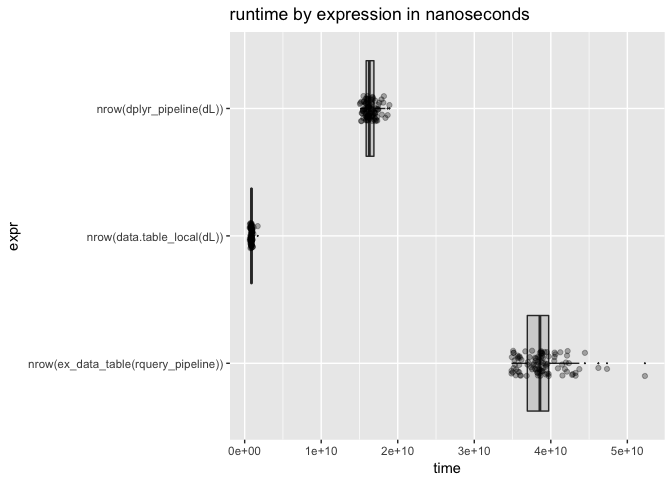
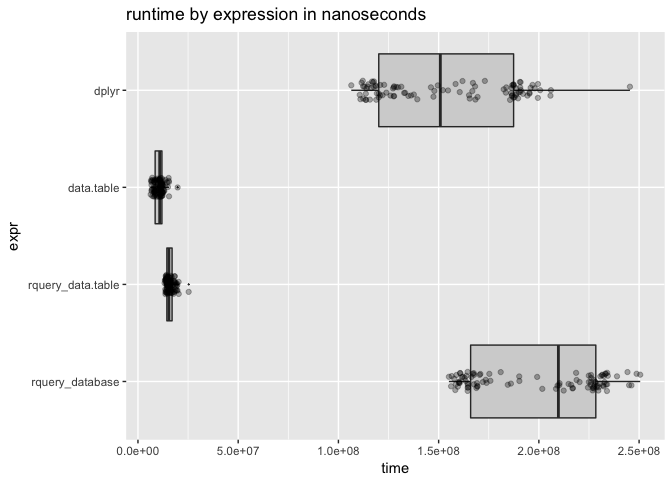
re-run after performance fix

diff --git a/extras/data_table.md b/extras/data_table.md
@@ -204,37 +204,43 @@ dL$subjectID <- paste(dL$subjectID, (1+seq_len(nrow(dL))) %/% 2, sep = "_")
 for(i in seq_len(10)) {
   dL[[paste0("irrelevantCol", i)]] <- runif(nrow(dL))
 }
-
-# show we are working on the new larger data
-system.time(print(nrow(ex_data_table(rquery_pipeline))))
 ```
 
-    ## [1] 200000
-
-    ##    user  system elapsed 
-    ##  41.830   0.673  42.571
-
 ``` r
-system.time(print(nrow(dplyr_pipeline(dL))))
+# show we are working on the new larger data and results agree
+ref <- as.data.frame(ex_data_table(rquery_pipeline))
+assertthat::assert_that(min(ref$probability)>=0.5) # sensible effect
 ```
 
-    ## [1] 200000
-
-    ##    user  system elapsed 
-    ##  17.320   0.139  17.500
+    ## [1] TRUE
 
 ``` r
-system.time(nrow(data.table_local(dL)))
+c1 <- as.data.frame(execute(dL, rquery_pipeline))
+assertthat::are_equal(ref, c1)
 ```
 
-    ##    user  system elapsed 
-    ##   1.367   0.048   0.810
+    ## [1] TRUE
 
 ``` r
-timings <- microbenchmark(
-  nrow(ex_data_table(rquery_pipeline)),
-  nrow(data.table_local(dL)),
-  nrow(dplyr_pipeline(dL)))
+c2 <- as.data.frame(dplyr_pipeline(dL))
+assertthat::are_equal(ref, c2)
+```
+
+    ## [1] TRUE
+
+``` r
+c3 <- as.data.frame(data.table_local(dL))
+assertthat::are_equal(ref, c3)
+```
+
+    ## [1] TRUE
+
+``` r
+timings <- microbenchmark(times = 10L,
+  rquery_database = nrow(execute(dL, rquery_pipeline)),
+  rquery_data.table = nrow(ex_data_table(rquery_pipeline)),
+  data.table = nrow(data.table_local(dL)),
+  dplyr = nrow(dplyr_pipeline(dL)))
 ```
 
 ``` r
@@ -242,14 +248,16 @@ print(timings)
 ```
 
     ## Unit: milliseconds
-    ##                                  expr        min         lq       mean
-    ##  nrow(ex_data_table(rquery_pipeline)) 34862.2797 36901.0846 38805.5518
-    ##            nrow(data.table_local(dL))   650.1954   849.8022   891.8786
-    ##              nrow(dplyr_pipeline(dL)) 15066.6152 15873.5946 16410.9090
-    ##     median        uq       max neval
-    ##  38575.962 39719.327 52297.380   100
-    ##    890.274   920.545  1699.954   100
-    ##  16287.420 16891.901 18911.649   100
+    ##               expr        min         lq       mean     median         uq
+    ##    rquery_database 12142.7993 12320.7961 12681.7088 12620.9087 13064.7130
+    ##  rquery_data.table   673.5670   691.3015   730.9552   709.7306   774.7688
+    ##         data.table   703.7485   798.0307   866.0074   917.4921   935.7896
+    ##              dplyr 15974.8765 16134.2316 16836.6624 16340.9353 16928.0881
+    ##         max neval
+    ##  13409.0698    10
+    ##    839.8092    10
+    ##    960.7547    10
+    ##  20002.3947    10
 
 ``` r
 # summarize by hand using rquery database connector
@@ -262,22 +270,23 @@ timings %.>%
   knitr::kable(.)
 ```
 
-| expr                                    |         mean|
-|:----------------------------------------|------------:|
-| nrow(dplyr\_pipeline(dL))               |  16410908996|
-| nrow(data.table\_local(dL))             |    891878555|
-| nrow(ex\_data\_table(rquery\_pipeline)) |  38805551750|
+| expr               |         mean|
+|:-------------------|------------:|
+| dplyr              |  16836662392|
+| rquery\_database   |  12681708822|
+| rquery\_data.table |    730955241|
+| data.table         |    866007351|
 
 ``` r
 autoplot(timings)
 ```
 
-![](data_table_files/figure-markdown_github/unnamed-chunk-12-1.png)
+![](data_table_files/figure-markdown_github/unnamed-chunk-13-1.png)
 
 ``` r
 WVPlots::ScatterBoxPlotH(as.data.frame(timings), "time", "expr", "runtime by expression in nanoseconds")
 ```
 
-![](data_table_files/figure-markdown_github/unnamed-chunk-12-2.png)
+![](data_table_files/figure-markdown_github/unnamed-chunk-13-2.png)
 
 For more timings (including fast base-R implementations), please see [here](https://github.com/WinVector/rquery/blob/master/extras/QTimingFollowup/QTiming4.md).
